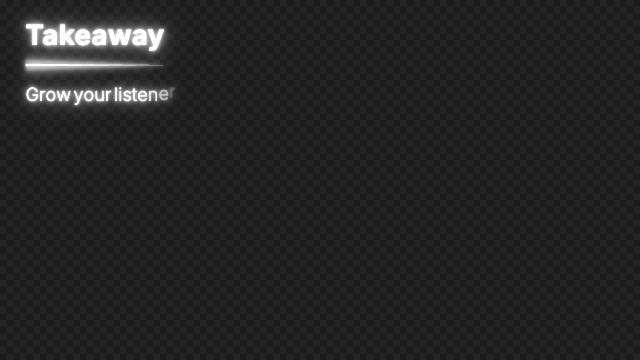
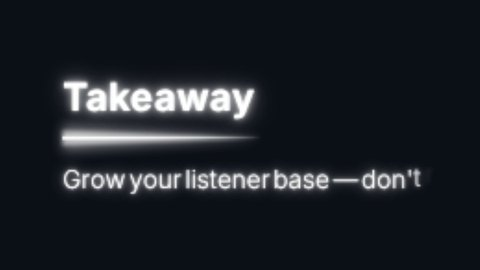
Offer the remaining 20 hidden motion graphics
All 20 templates in the render blocklist now render: 18 were blocked for
code-gate false matches ("browser globals", "computed property names") and
the app already runs their repaired code, which passes the gate; the other
2 ("renders as an empty frame") now draw their animated charts. Rendered
each in the app's sandboxed renderer at six moments: no errors.

- Blocklist emptied (file and mechanism kept for any future template that
  really cannot render)
- 7 stills redone with the app's renderer: the 4 talking-head frames now
  show the English text the app displays, and 3 small lower thirds are
  zoomed and taken once their text has typed out (public and the build's
  source folder, so sync-mg-thumbs keeps them)
- The preview test no longer requires the blocklist to be non-empty; it
  still checks that nothing on it is offered

Claude-Session: https://claude.ai/code/session_01HH9yPZiocWpzturt6Cs1eU

diff --git a/src/cinegen/__tests__/template-generator-real-previews.test.ts b/src/cinegen/__tests__/template-generator-real-previews.test.ts
@@ -73,8 +73,8 @@ describe('no still is an empty picture', () => {
 
 describe('motion graphics the sandbox cannot draw are not offered', () => {
   it('none of the blocked templates appear, and every offered one has a still', async () => {
+    // The list can be empty (every template renders today); whatever it holds must never be offered.
     const blocked = Object.keys((await import('@cinegen/lib/occ/mg-render-blocklist.json')).default.ids);
-    expect(blocked.length).toBeGreaterThan(0);
     const offered = new Set((await allCards('motion')).map((c) => c.id.replace(/^mg:/, '')));
     for (const id of blocked) expect(offered.has(id), id).toBe(false);
   });
